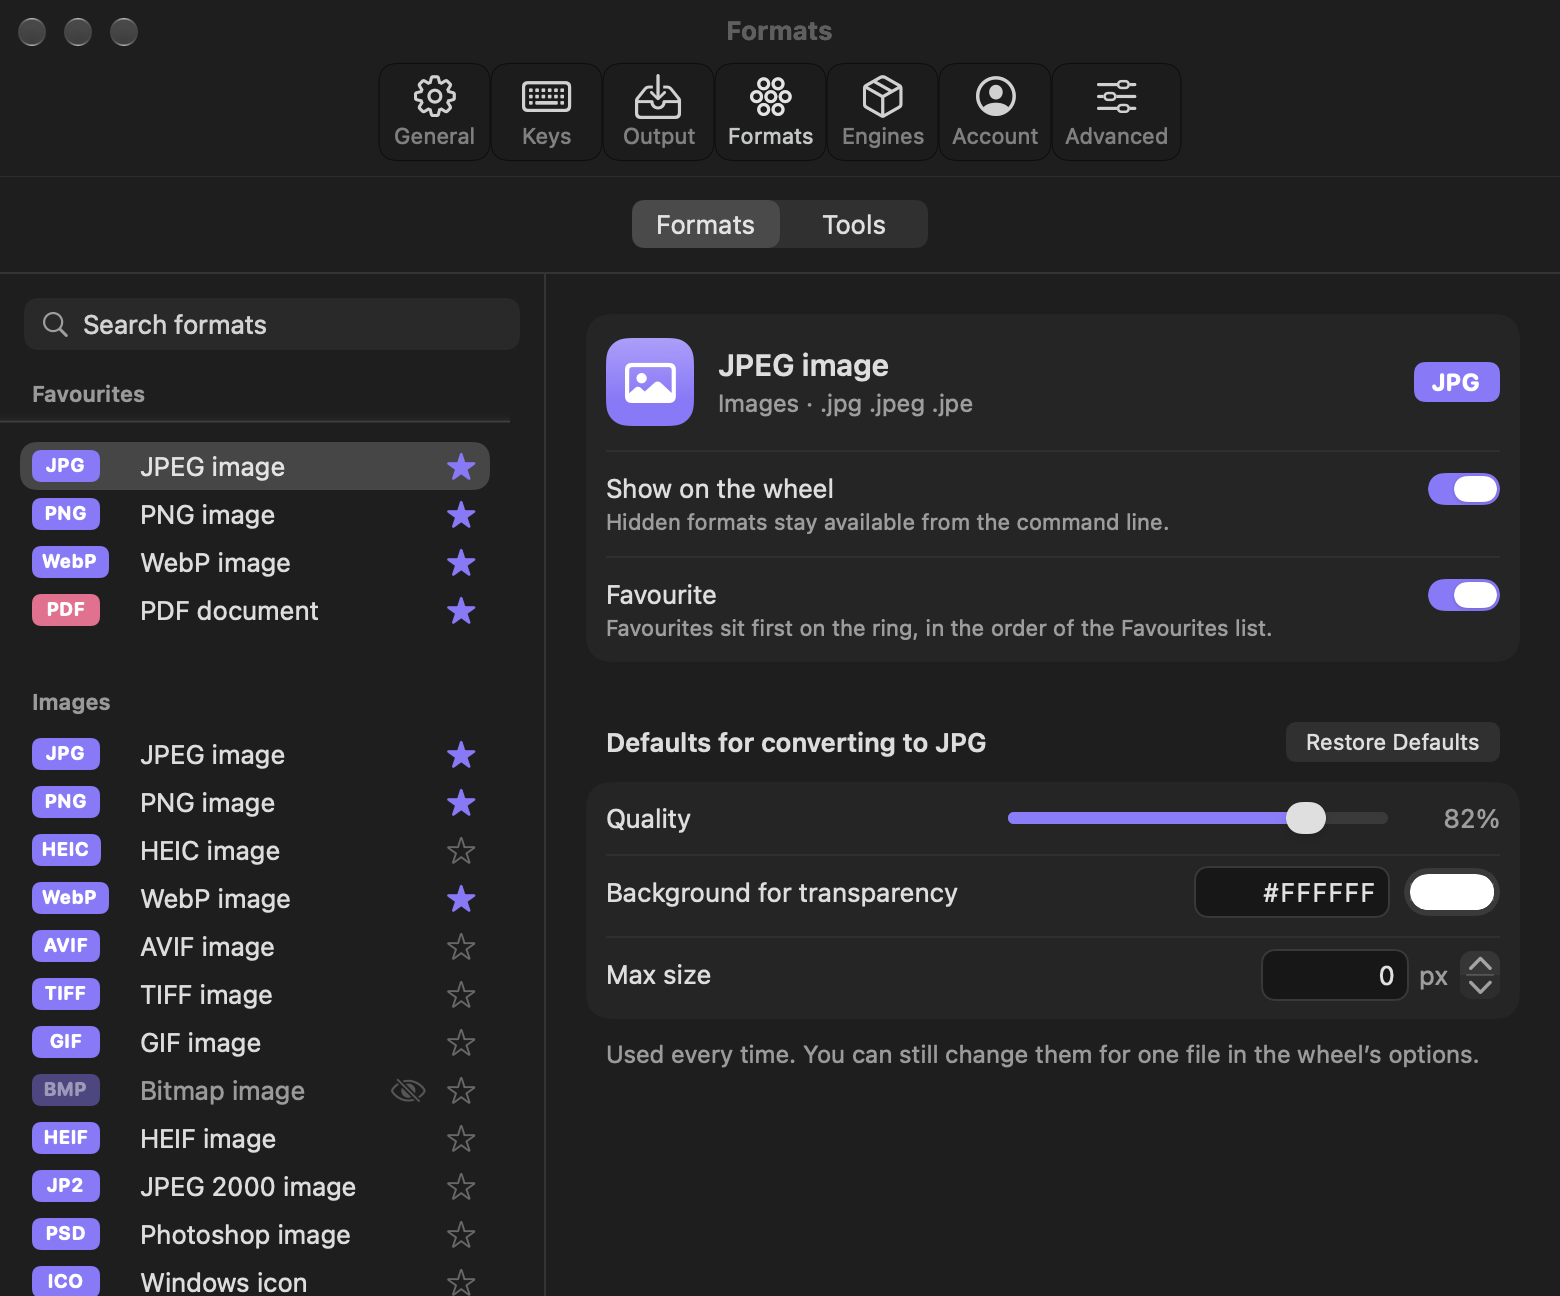
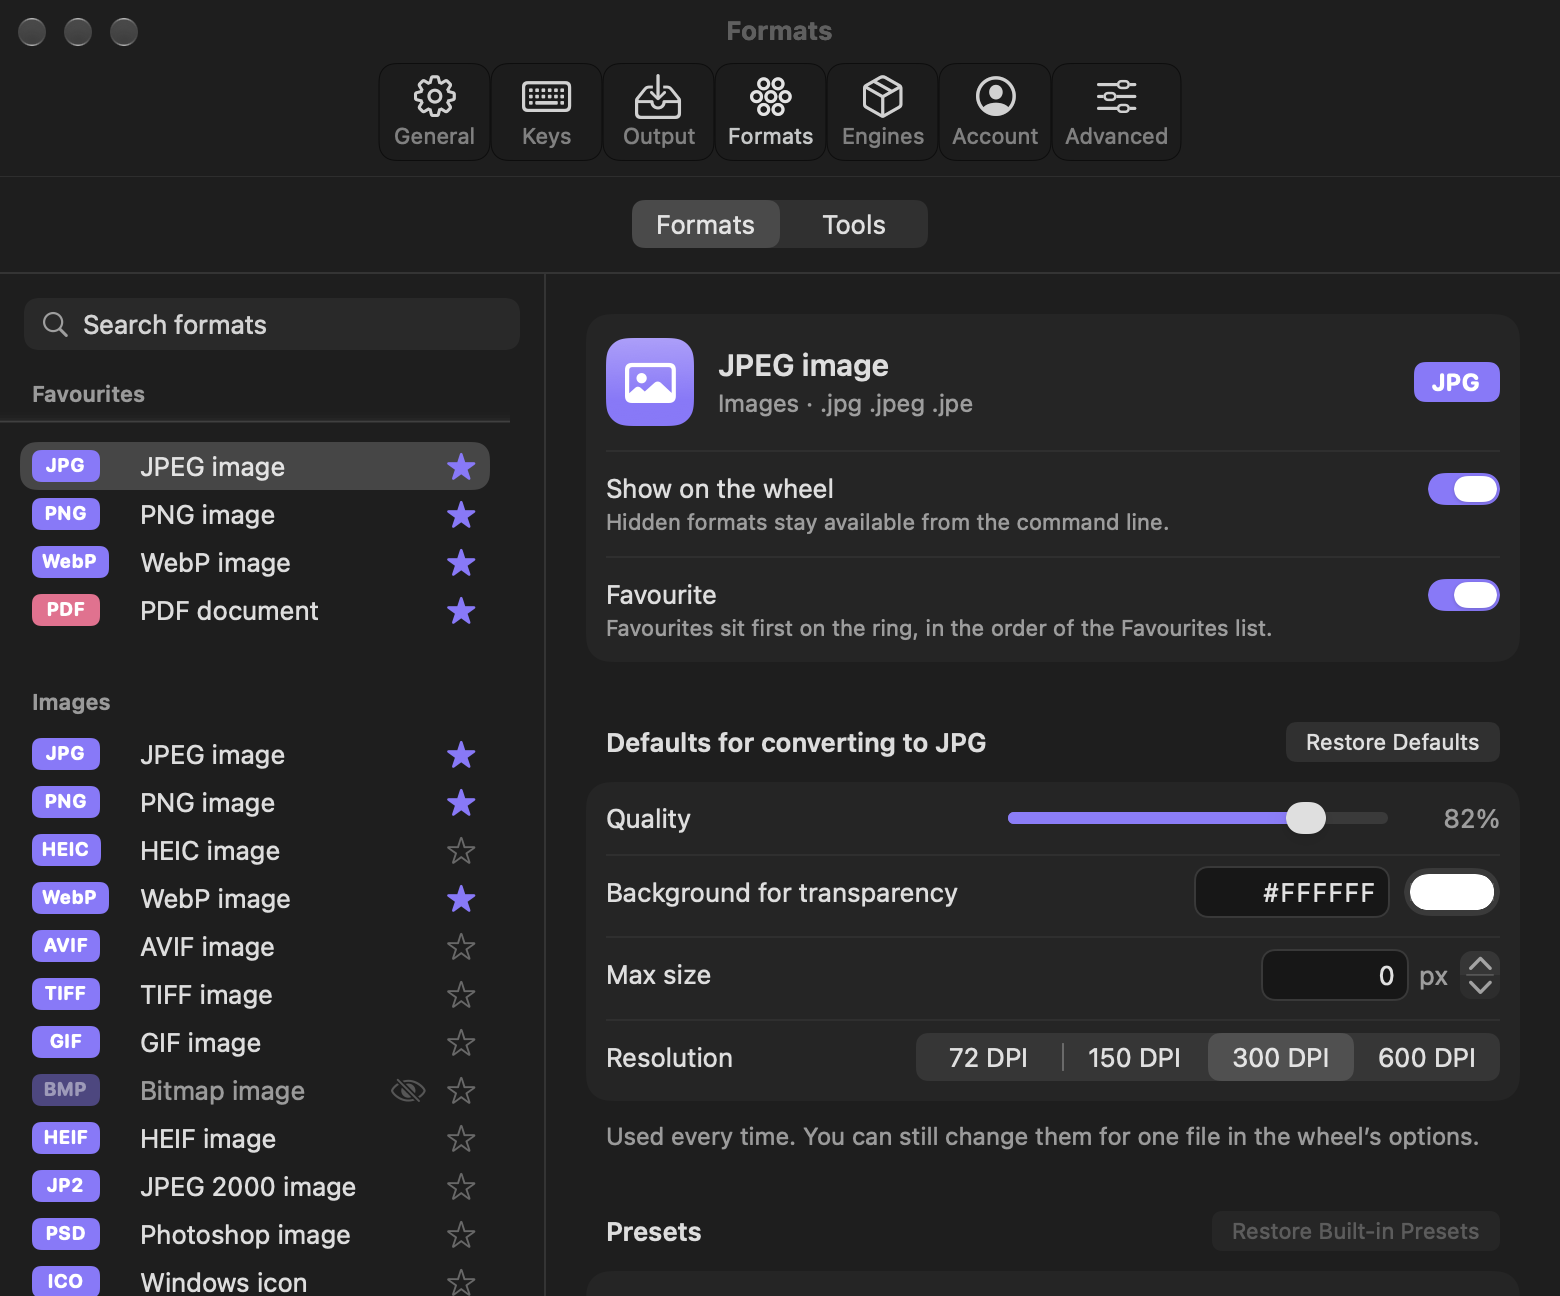
feat(settings): edit presets in Settings › Formats
Presets section under the defaults: rename inline, use as defaults,
move up/down, delete (built-ins hide), save current defaults, restore
built-ins. The defaults form now reads OptionsSchema.forTarget.

diff --git a/Sources/Settings/Panes/FormatsPane.swift b/Sources/Settings/Panes/FormatsPane.swift
@@ -195,6 +195,14 @@ private struct FormatDetail: View {
     let format: Format
     let schema: OptionsSchema
     @ObservedObject var settings: AppSettings
+    @StateObject private var presets: FormatPresetsModel
+
+    init(format: Format, schema: OptionsSchema, settings: AppSettings) {
+        self.format = format
+        self.schema = schema
+        self.settings = settings
+        _presets = StateObject(wrappedValue: FormatPresetsModel(format: format.id, schema: schema))
+    }
 
     var body: some View {
         Form {
@@ -266,6 +274,10 @@ private struct FormatDetail: View {
                     FootnoteText(text: String(localized: "Used every time. You can still change them for one file in the wheel’s options."))
                 }
             }
+
+            if !schema.specs.isEmpty {
+                PresetsSection(format: format, model: presets, settings: settings, currentValues: valuesBinding.wrappedValue)
+            }
         }
         .formStyle(.grouped)
     }
@@ -279,6 +291,197 @@ private struct FormatDetail: View {
                 settings.formatDefaults[format.id] = diff.values.isEmpty ? nil : diff
             }
         )
+    }
+}
+
+// MARK: - Presets
+
+private struct PresetsSection: View {
+    let format: Format
+    @ObservedObject var model: FormatPresetsModel
+    @ObservedObject var settings: AppSettings
+    let currentValues: OptionValues
+
+    var body: some View {
+        Section {
+            if model.presets.isEmpty {
+                Text("No presets for \(format.label) yet.")
+                    .foregroundStyle(.secondary)
+            }
+            ForEach(model.presets) { preset in
+                PresetRow(preset: preset, model: model) {
+                    let diff = OptionsFormLogic.nonDefault(model.schema.defaults.merging(preset.values), schema: model.schema)
+                    settings.formatDefaults[format.id] = diff.values.isEmpty ? nil : diff
+                }
+            }
+            HStack {
+                Button("Save Current Defaults as Preset") { model.saveAsPreset(currentValues) }
+                    .accessibilityIdentifier("formats.presets.save")
+                Spacer()
+            }
+        } header: {
+            HStack {
+                Text("Presets")
+                Spacer()
+                Button("Restore Built-in Presets") { model.restoreBuiltIns() }
+                    .controlSize(.small)
+                    .disabled(!model.hasHiddenBuiltIns)
+                    .accessibilityIdentifier("formats.presets.restore")
+            }
+        } footer: {
+            FootnoteText(text: String(localized: "Presets show next to \(format.label) on the wheel. Click a name to rename it."))
+        }
+    }
+}
+
+private struct PresetRow: View {
+    let preset: ConversionPreset
+    @ObservedObject var model: FormatPresetsModel
+    let useAsDefaults: () -> Void
+    @State private var title = ""
+    @FocusState private var editing: Bool
+
+    var body: some View {
+        HStack(spacing: DesignTokens.Space.s) {
+            VStack(alignment: .leading, spacing: DesignTokens.Space.xxs) {
+                if preset.isBuiltIn {
+                    Text(verbatim: preset.title)
+                } else {
+                    TextField("", text: $title, prompt: Text("Preset name"))
+                        .textFieldStyle(.plain)
+                        .focused($editing)
+                        .onSubmit(commit)
+                        .onChange(of: editing) { focused in if !focused { commit() } }
+                        .accessibilityLabel(Text("Preset name"))
+                        .accessibilityIdentifier("formats.presets.name")
+                }
+                let summary = model.summary(of: preset)
+                if !summary.isEmpty {
+                    Text(verbatim: summary)
+                        .font(.system(size: DesignTokens.TypeRamp.label))
+                        .foregroundStyle(.secondary)
+                        .lineLimit(1)
+                }
+            }
+            Spacer(minLength: DesignTokens.Space.s)
+            if preset.isBuiltIn {
+                Text("Built-in")
+                    .font(.system(size: DesignTokens.TypeRamp.caption, weight: .medium))
+                    .foregroundStyle(.secondary)
+                    .padding(.horizontal, DesignTokens.Space.s)
+                    .padding(.vertical, DesignTokens.Space.xxs)
+                    .background(Capsule().fill(Color.primary.opacity(0.06)))
+            }
+            Menu {
+                menuItems
+            } label: {
+                Image(systemName: "ellipsis.circle")
+            }
+            .menuStyle(.borderlessButton)
+            .menuIndicator(.hidden)
+            .fixedSize()
+            .accessibilityLabel(Text("Actions for \(preset.title)"))
+        }
+        .font(.system(size: DesignTokens.TypeRamp.body))
+        .contextMenu { menuItems }
+        .onAppear { title = preset.title }
+        .onChange(of: preset.title) { new in if !editing { title = new } }
+    }
+
+    @ViewBuilder private var menuItems: some View {
+        Button("Use as Defaults", action: useAsDefaults)
+        Divider()
+        Button("Move Up") { model.move(preset.id, by: -1) }
+            .disabled(!model.canMove(preset.id, by: -1))
+        Button("Move Down") { model.move(preset.id, by: 1) }
+            .disabled(!model.canMove(preset.id, by: 1))
+        Divider()
+        if preset.isBuiltIn {
+            Button("Hide Built-in Preset") { model.delete(preset.id) }
+        } else {
+            Button("Delete Preset") { model.delete(preset.id) }
+        }
+    }
+
+    private func commit() {
+        let t = title.trimmingCharacters(in: .whitespacesAndNewlines)
+        if t.isEmpty { title = preset.title; return }
+        if t != preset.title { model.rename(preset.id, to: t) }
+    }
+}
+
+/// The Presets section's state for one format. Reads and writes `PresetStore`
+/// and refreshes after its own edits (the store's single `onChange` slot is
+/// left to sync).
+@MainActor
+final class FormatPresetsModel: ObservableObject {
+    let format: FormatID
+    let schema: OptionsSchema
+    let store: PresetStore
+    @Published private(set) var presets: [ConversionPreset] = []
+    @Published private(set) var hasHiddenBuiltIns = false
+
+    init(format: FormatID, schema: OptionsSchema, store: PresetStore = .shared) {
+        self.format = format
+        self.schema = schema
+        self.store = store
+        reload()
+    }
+
+    func reload() {
+        presets = store.presets(for: format)
+        hasHiddenBuiltIns = !store.hiddenBuiltIns(for: format).isEmpty
+    }
+
+    func rename(_ id: String, to title: String) { store.rename(id, to: title); reload() }
+    func delete(_ id: String) { store.delete(id); reload() }
+    func restoreBuiltIns() { store.restoreBuiltIns(for: format); reload() }
+
+    func move(_ id: String, by offset: Int) {
+        guard canMove(id, by: offset) else { return }
+        store.move(id, by: offset)
+        reload()
+    }
+
+    /// Only user presets move, and only among themselves (built-ins follow).
+    func canMove(_ id: String, by offset: Int) -> Bool {
+        let user = presets.filter { !$0.isBuiltIn }
+        guard let i = user.firstIndex(where: { $0.id == id }) else { return false }
+        return user.indices.contains(i + offset)
+    }
+
+    /// Saves `values` (the defaults as shown: schema defaults plus the user's
+    /// changes) as a new preset named "Preset N".
+    @discardableResult
+    func saveAsPreset(_ values: OptionValues) -> ConversionPreset {
+        let taken = Set(presets.map(\.title))
+        var n = presets.filter { !$0.isBuiltIn }.count + 1
+        while taken.contains(Self.untitled(n)) { n += 1 }
+        let preset = store.add(Self.untitled(n), format: format, values: PresetStore.validated(values, against: schema))
+        reload()
+        return preset
+    }
+
+    static func untitled(_ n: Int) -> String { String(localized: "Preset \(n)") }
+
+    /// "480 px · 10 fps · Dither off": the preset's values in schema order,
+    /// choices by their labels.
+    func summary(of preset: ConversionPreset) -> String {
+        schema.specs.compactMap { spec -> String? in
+            guard let v = preset.values[spec.id] else { return nil }
+            switch spec.kind {
+            case .choice(let choices):
+                return choices.first { $0.id == v.description }.map(\.label)
+            case .toggle:
+                guard case .bool(let on) = v else { return nil }
+                return on ? spec.label : String(localized: "\(spec.label) off")
+            case .slider(_, _, _, let unit), .integer(_, _, let unit):
+                return "\(spec.label) \(v.description)" + (unit.map { $0 == "%" ? " %" : " \($0)" } ?? "")
+            default:
+                return "\(spec.label) \(v.description)"
+            }
+        }
+        .joined(separator: " · ")
     }
 }
 
@@ -353,19 +556,12 @@ extension SettingsModel {
         return Formats.all.filter { targets.contains($0.id) }
     }
 
-    /// Options schema for converting *to* `format`, minus per-job choices that
-    /// don't belong in a saved default (running in the cloud).
+    /// Options schema for converting *to* `format` (`OptionsSchema.forTarget`),
+    /// minus per-job choices that don't belong in a saved default (running in
+    /// the cloud, page ranges).
     func defaultsSchema(for format: FormatID) -> OptionsSchema {
-        let rows = router.table.rows
-        let schema: OptionsSchema
-        if rows.isEmpty {
-            schema = FormatSchemaFallback.schema(for: format)
-        } else {
-            schema = rows.filter { $0.to == format }
-                .sorted { $0.priority > $1.priority }
-                .map(\.schema)
-                .first { !$0.specs.isEmpty } ?? .none
-        }
+        guard router.table.rows.isEmpty else { return OptionsSchema.forTarget(format, table: router.table) ?? .none }
+        let schema = FormatSchemaFallback.schema(for: format)
         return OptionsSchema(schema.id, schema.specs.filter { $0.id != OptionKey.cloud })
     }
 }

diff --git a/Tests/Unit/App/Settings/FormatPresetsModelTests.swift b/Tests/Unit/App/Settings/FormatPresetsModelTests.swift
@@ -1,0 +1,75 @@
+import XCTest
+import HaloCore
+@testable import HaloApp
+
+@MainActor
+final class FormatPresetsModelTests: XCTestCase {
+    private var dir: URL!
+
+    override func setUp() async throws {
+        dir = FileManager.default.temporaryDirectory.appendingPathComponent("pane-presets-\(UUID().uuidString)", isDirectory: true)
+    }
+
+    override func tearDown() async throws {
+        try? FileManager.default.removeItem(at: dir)
+    }
+
+    private func model(_ format: FormatID = Formats.gif) throws -> FormatPresetsModel {
+        let schema = try XCTUnwrap(OptionsSchema.forTarget(format))
+        return FormatPresetsModel(format: format, schema: schema, store: PresetStore(fileURL: dir.appendingPathComponent("presets.json")))
+    }
+
+    func testSaveRenameMoveDeleteAndRestore() throws {
+        let m = try model()
+        XCTAssertEqual(m.presets.map(\.id), ["builtin.gif.small", "builtin.gif.smooth"])
+        XCTAssertFalse(m.hasHiddenBuiltIns)
+        XCTAssertFalse(m.canMove("builtin.gif.small", by: 1), "built-ins don't move")
+
+        let defaults = m.schema.defaults.merging(OptionValues([OptionKey.fps: .string("24")]))
+        let a = m.saveAsPreset(defaults)
+        let b = m.saveAsPreset(defaults)
+        XCTAssertEqual([a.title, b.title], ["Preset 1", "Preset 2"])
+        XCTAssertEqual(a.values[OptionKey.fps], .string("24"))
+        XCTAssertEqual(a.values[OptionKey.gifWidth], .string("640"), "saves the defaults as shown, not just the changes")
+        XCTAssertEqual(m.presets.map(\.id).prefix(2), [a.id, b.id])
+
+        XCTAssertFalse(m.canMove(a.id, by: -1))
+        XCTAssertTrue(m.canMove(a.id, by: 1))
+        XCTAssertFalse(m.canMove(b.id, by: 1), "last user preset stays above the built-ins")
+        m.move(b.id, by: -1)
+        XCTAssertEqual(m.presets.map(\.id).prefix(2), [b.id, a.id])
+
+        m.rename(a.id, to: "Loop")
+        XCTAssertEqual(m.presets.first { $0.id == a.id }?.title, "Loop")
+        XCTAssertEqual(m.saveAsPreset(defaults).title, "Preset 3")
+
+        m.delete("builtin.gif.small")
+        XCTAssertTrue(m.hasHiddenBuiltIns)
+        XCTAssertFalse(m.presets.contains { $0.id == "builtin.gif.small" })
+        m.restoreBuiltIns()
+        XCTAssertFalse(m.hasHiddenBuiltIns)
+        XCTAssertEqual(m.presets.suffix(2).map(\.id), ["builtin.gif.small", "builtin.gif.smooth"])
+        m.delete(a.id)
+        XCTAssertFalse(m.presets.contains { $0.id == a.id })
+    }
+
+    func testSummaryUsesChoiceLabelsInSchemaOrder() throws {
+        let m = try model()
+        let small = try XCTUnwrap(m.presets.first)
+        XCTAssertEqual(m.summary(of: small), "480 px · 10 fps")
+        let flat = ConversionPreset(id: "x", format: Formats.gif, title: "x",
+                                    values: OptionValues([OptionKey.gifDither: .bool(false), OptionKey.gifLoop: .string("once")]), isBuiltIn: false)
+        XCTAssertEqual(m.summary(of: flat), "Play once · Dither off")
+        let jpg = try model(Formats.jpg)
+        XCTAssertEqual(jpg.summary(of: try XCTUnwrap(jpg.presets.first)), "Quality 80 %")
+    }
+
+    func testDefaultsSchemaUsesTheSharedTargetHelper() throws {
+        let sample = try SampleState()
+        defer { sample.tearDown() }
+        let model = sample.model
+        guard !model.router.table.rows.isEmpty else { return }
+        XCTAssertEqual(model.defaultsSchema(for: Formats.gif), OptionsSchema.forTarget(Formats.gif, table: model.router.table))
+        XCTAssertNotNil(model.defaultsSchema(for: Formats.gif).spec(OptionKey.gifColors))
+    }
+}
